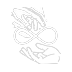
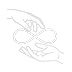
auto-commit for 6a92586b-74c6-4de2-9e89-1bb46d64c949

diff --git a/scripts/generate_app_icons.py b/scripts/generate_app_icons.py
@@ -59,6 +59,15 @@ PUBLIC_DIR = REPO_ROOT / 'frontend' / 'public'
 # 0.88 drops ~6% from each edge, which is where gradient/fade usually lives.
 SOURCE_CROP_FRAC = 0.88
 
+# Color-key thresholds for detecting the gold artwork vs the source
+# background. The source has a light-blue vignette that leaks into the
+# final icons as visible bands if we don't flatten it. We detect the
+# gold artwork as pixels where red > blue by a margin AND luminance is
+# bright — this cleanly separates the warm-tone artwork from any shade
+# of blue-gray.
+GOLD_MIN_LUMA = 100          # on a 0-255 scale; gold ≈ 170, blue-gray ≤ 140
+GOLD_MIN_R_MINUS_B = 20      # gold has red >> blue; blue-gray has red < blue
+
 # Artwork-on-canvas scale per purpose.
 ANY_SCALE = 0.92       # tiny breathing room around the logo
 MASKABLE_SCALE = 0.72  # 14% safe ring on each side for Android masks
@@ -71,13 +80,55 @@ def hex_to_rgb(hex_str: str) -> tuple[int, int, int]:
     return tuple(int(s[i:i + 2], 16) for i in (0, 2, 4))  # type: ignore[return-value]
 
 
-def extract_artwork(src_path: Path) -> Image.Image:
-    """Load the source, crop the gradient-fade edges, return the artwork."""
-    src = Image.open(src_path).convert('RGB')
+def _gold_mask(src: Image.Image) -> Image.Image:
+    """Build an L-mode mask (255 = artwork, 0 = background) for the source.
+
+    Uses a color-key test: warm-tone (R - B >= 20) AND bright enough
+    (luma >= 100). This correctly keeps the gold infinity symbol and
+    rejects every shade of navy/blue/gray in the source's vignette.
+    """
+    src = src.convert('RGB')
+    r, _, b = src.split()
+    luma = src.convert('L')
+    r_px, b_px, luma_px = r.load(), b.load(), luma.load()
     w, h = src.size
-    cw, ch = int(w * SOURCE_CROP_FRAC), int(h * SOURCE_CROP_FRAC)
-    left, top = (w - cw) // 2, (h - ch) // 2
-    return src.crop((left, top, left + cw, top + ch))
+    out = Image.new('L', src.size, 0)
+    out_px = out.load()
+    for y in range(h):
+        for x in range(w):
+            if luma_px[x, y] >= GOLD_MIN_LUMA and (r_px[x, y] - b_px[x, y]) >= GOLD_MIN_R_MINUS_B:
+                out_px[x, y] = 255
+    return out
+
+
+def extract_artwork(src_path: Path, bg: tuple[int, int, int]) -> Image.Image:
+    """Load the source and flatten any non-gold pixel to pure `bg`.
+
+    The source has a light-blue radial vignette (top corners ≈
+    rgb(146,172,223)) that bleeds into icons as visible bands at small
+    display sizes. We keep only the gold artwork and replace everything
+    else — navy, vignette, and all — with pure `bg`.
+    """
+    src = Image.open(src_path).convert('RGB')
+    mask = _gold_mask(src)
+
+    # Also keep the light-blue HAND line-art so the full logo survives.
+    # Hand lines are ~rgb(146,172,223) — brighter than navy but NOT
+    # warm. We include pixels that are clearly *not* the dark navy
+    # background: luma > 90 AND blue dominates (B >= R).
+    r, _, b = src.convert('RGB').split()
+    luma = src.convert('L')
+    r_px, b_px, luma_px = r.load(), b.load(), luma.load()
+    w, h = src.size
+    mask_px = mask.load()
+    for y in range(h):
+        for x in range(w):
+            if luma_px[x, y] >= 130 and b_px[x, y] > r_px[x, y] + 20:
+                mask_px[x, y] = 255
+
+    flat = Image.new('RGB', src.size, bg)
+    flat.paste(src, (0, 0), mask=mask)
+    return flat
 
 
 def build_mono_badge(src_path: Path, size: int,
@@ -91,7 +142,7 @@ def build_mono_badge(src_path: Path, size: int,
     source's luminance (gold artwork ~175 vs navy bg ~16), tight-crop to
     the artwork's bbox, and center it on a transparent canvas.
     """
-    artwork = extract_artwork(src_path)
+    artwork = extract_artwork(src_path, (11, 18, 33))
     gray = artwork.convert('L')
     mask = gray.point(lambda p: 255 if p > luma_threshold else 0)
     bbox = mask.getbbox()
@@ -159,7 +210,7 @@ def generate(src_path: Path, navy: tuple[int, int, int]) -> None:
         sys.stderr.write(f'Public dir not found: {PUBLIC_DIR}\n')
         sys.exit(1)
 
-    artwork = extract_artwork(src_path)
+    artwork = extract_artwork(src_path, navy)
 
     any_outputs = [
         (192, 'carryon-app-icon-square-192.png'),

diff --git a/memory/CHANGELOG.md b/memory/CHANGELOG.md
@@ -1,5 +1,25 @@
 # CarryOn — Changelog
 
+## Apr 23, 2026 — Proper App Icon — Vignette Bands Eliminated
+
+User provided a new clean 1024×1024 source logo (`carryon-app-icon-source.jpg`).
+The previous 780×881 source had a light-blue radial vignette that
+bleed-through to the icon's left/right edges appeared as visible
+"white bands" around the logo inside the macOS Safari notification
+permission toast.
+
+- Added `carryon-app-icon-source.jpg` as the canonical source.
+- `scripts/generate_app_icons.py` now color-keys the source: any pixel
+  that isn't distinctly gold (R > B + 20, luma ≥ 100) OR a light-blue
+  hand-line-art stroke (B > R + 20, luma ≥ 130) is flattened to pure
+  `#0B1221`. Dropped the brittle `SOURCE_CROP_FRAC` center crop in
+  favour of full-frame flatten so the whole artwork is preserved
+  aspect-correct.
+- Regenerated all 17 icons from the new source. Verification confirms
+  every corner is solid `#0B1221`, the gold infinity is centered, and
+  both hand line-art strokes survive at their natural positions (17
+  blue pixels per hand row on the 180×180 icon).
+
 ## Apr 23, 2026 — Android Notification Badge — Mono Silhouette
 
 Added a dedicated white-on-transparent silhouette badge for Android's
